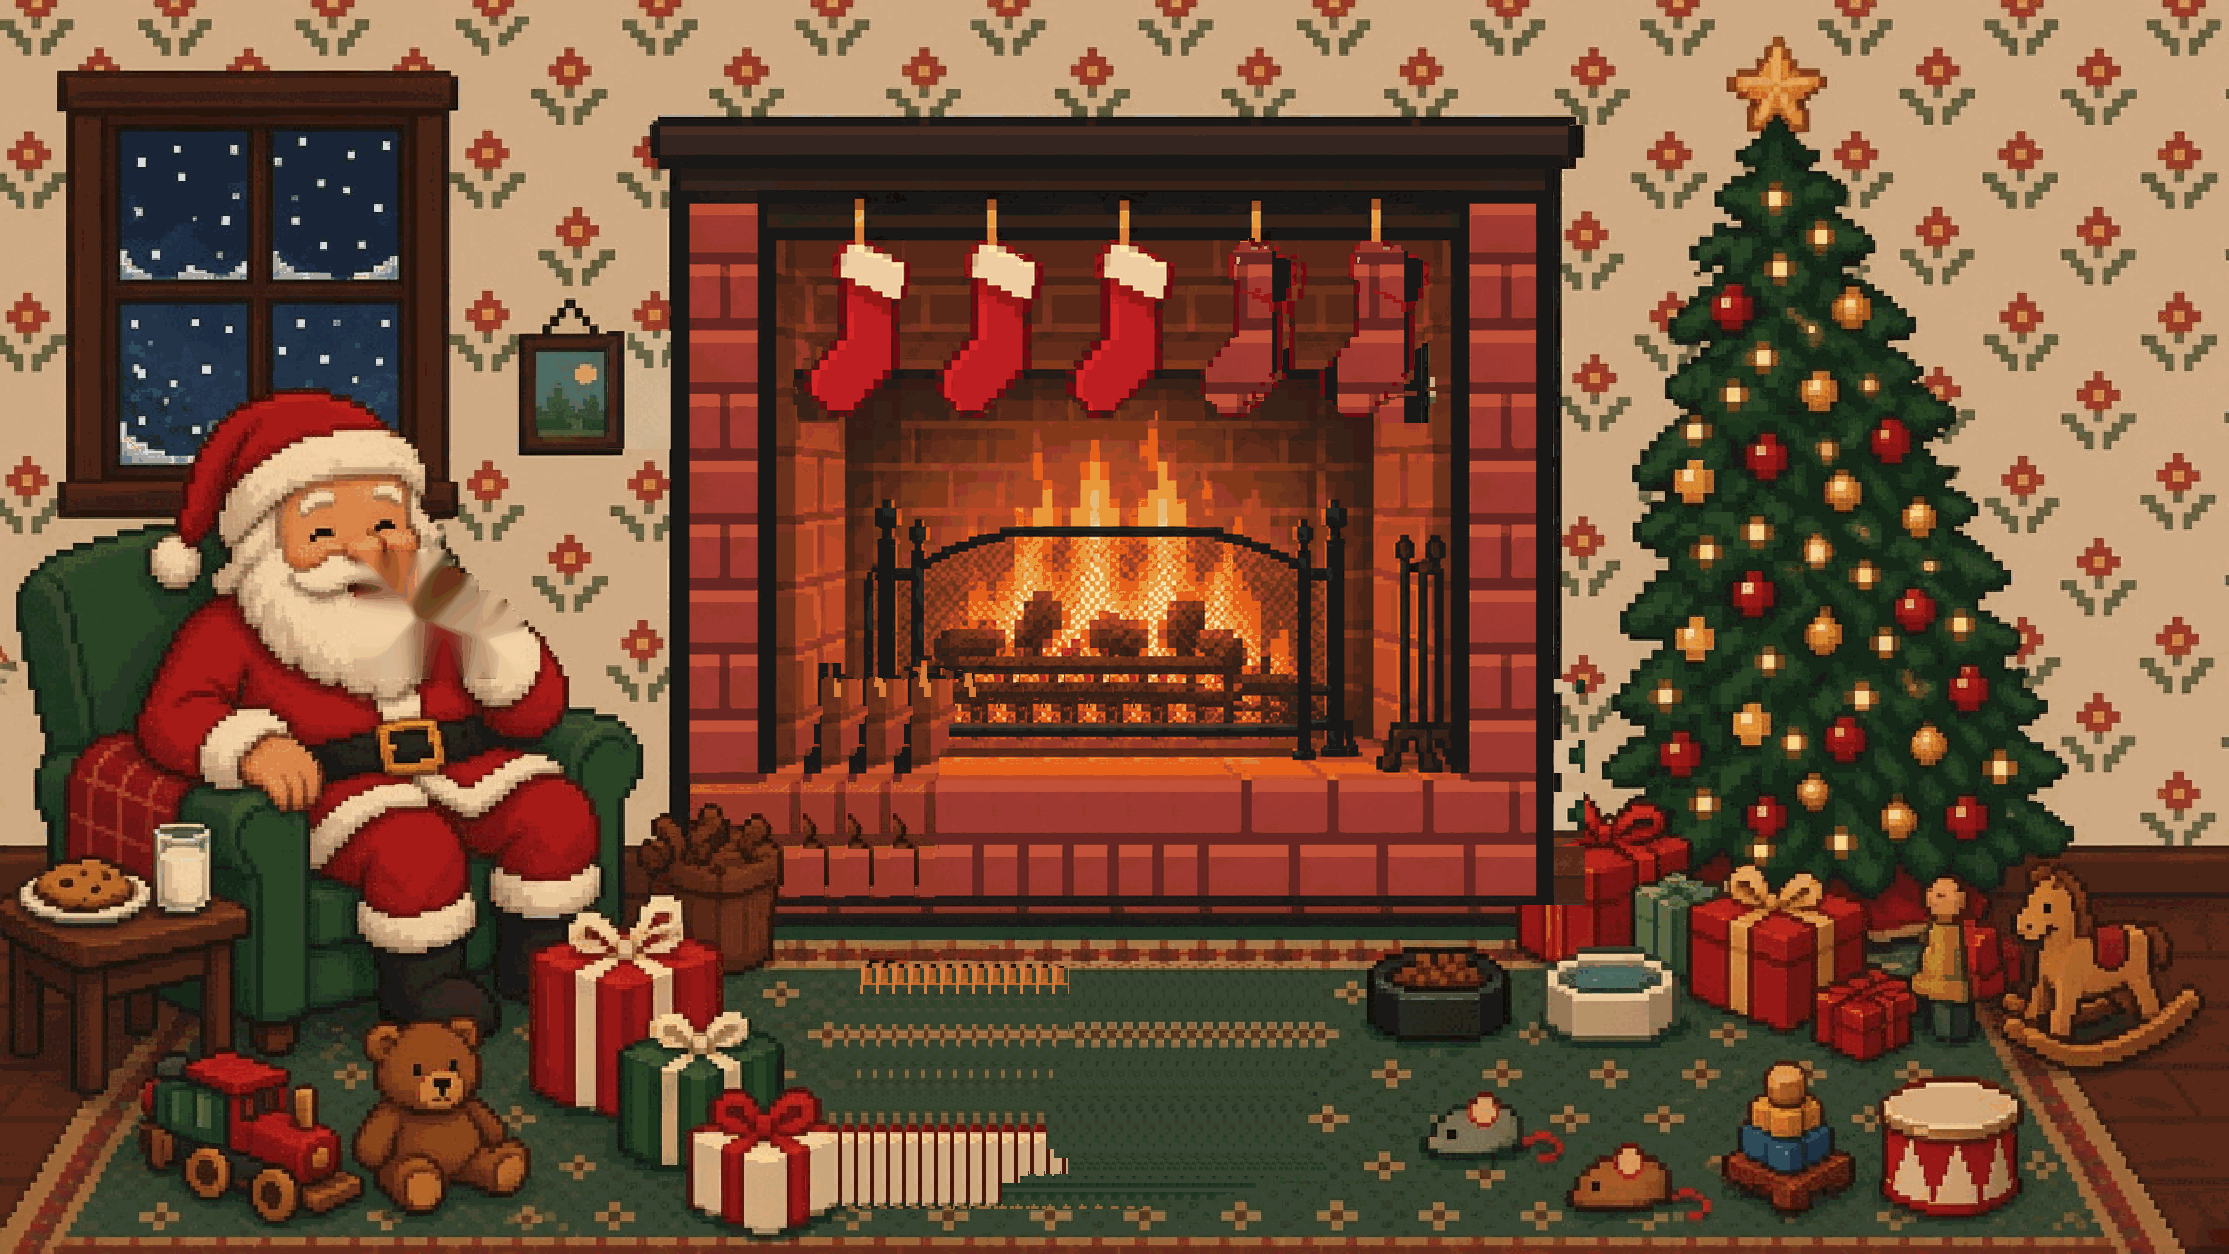
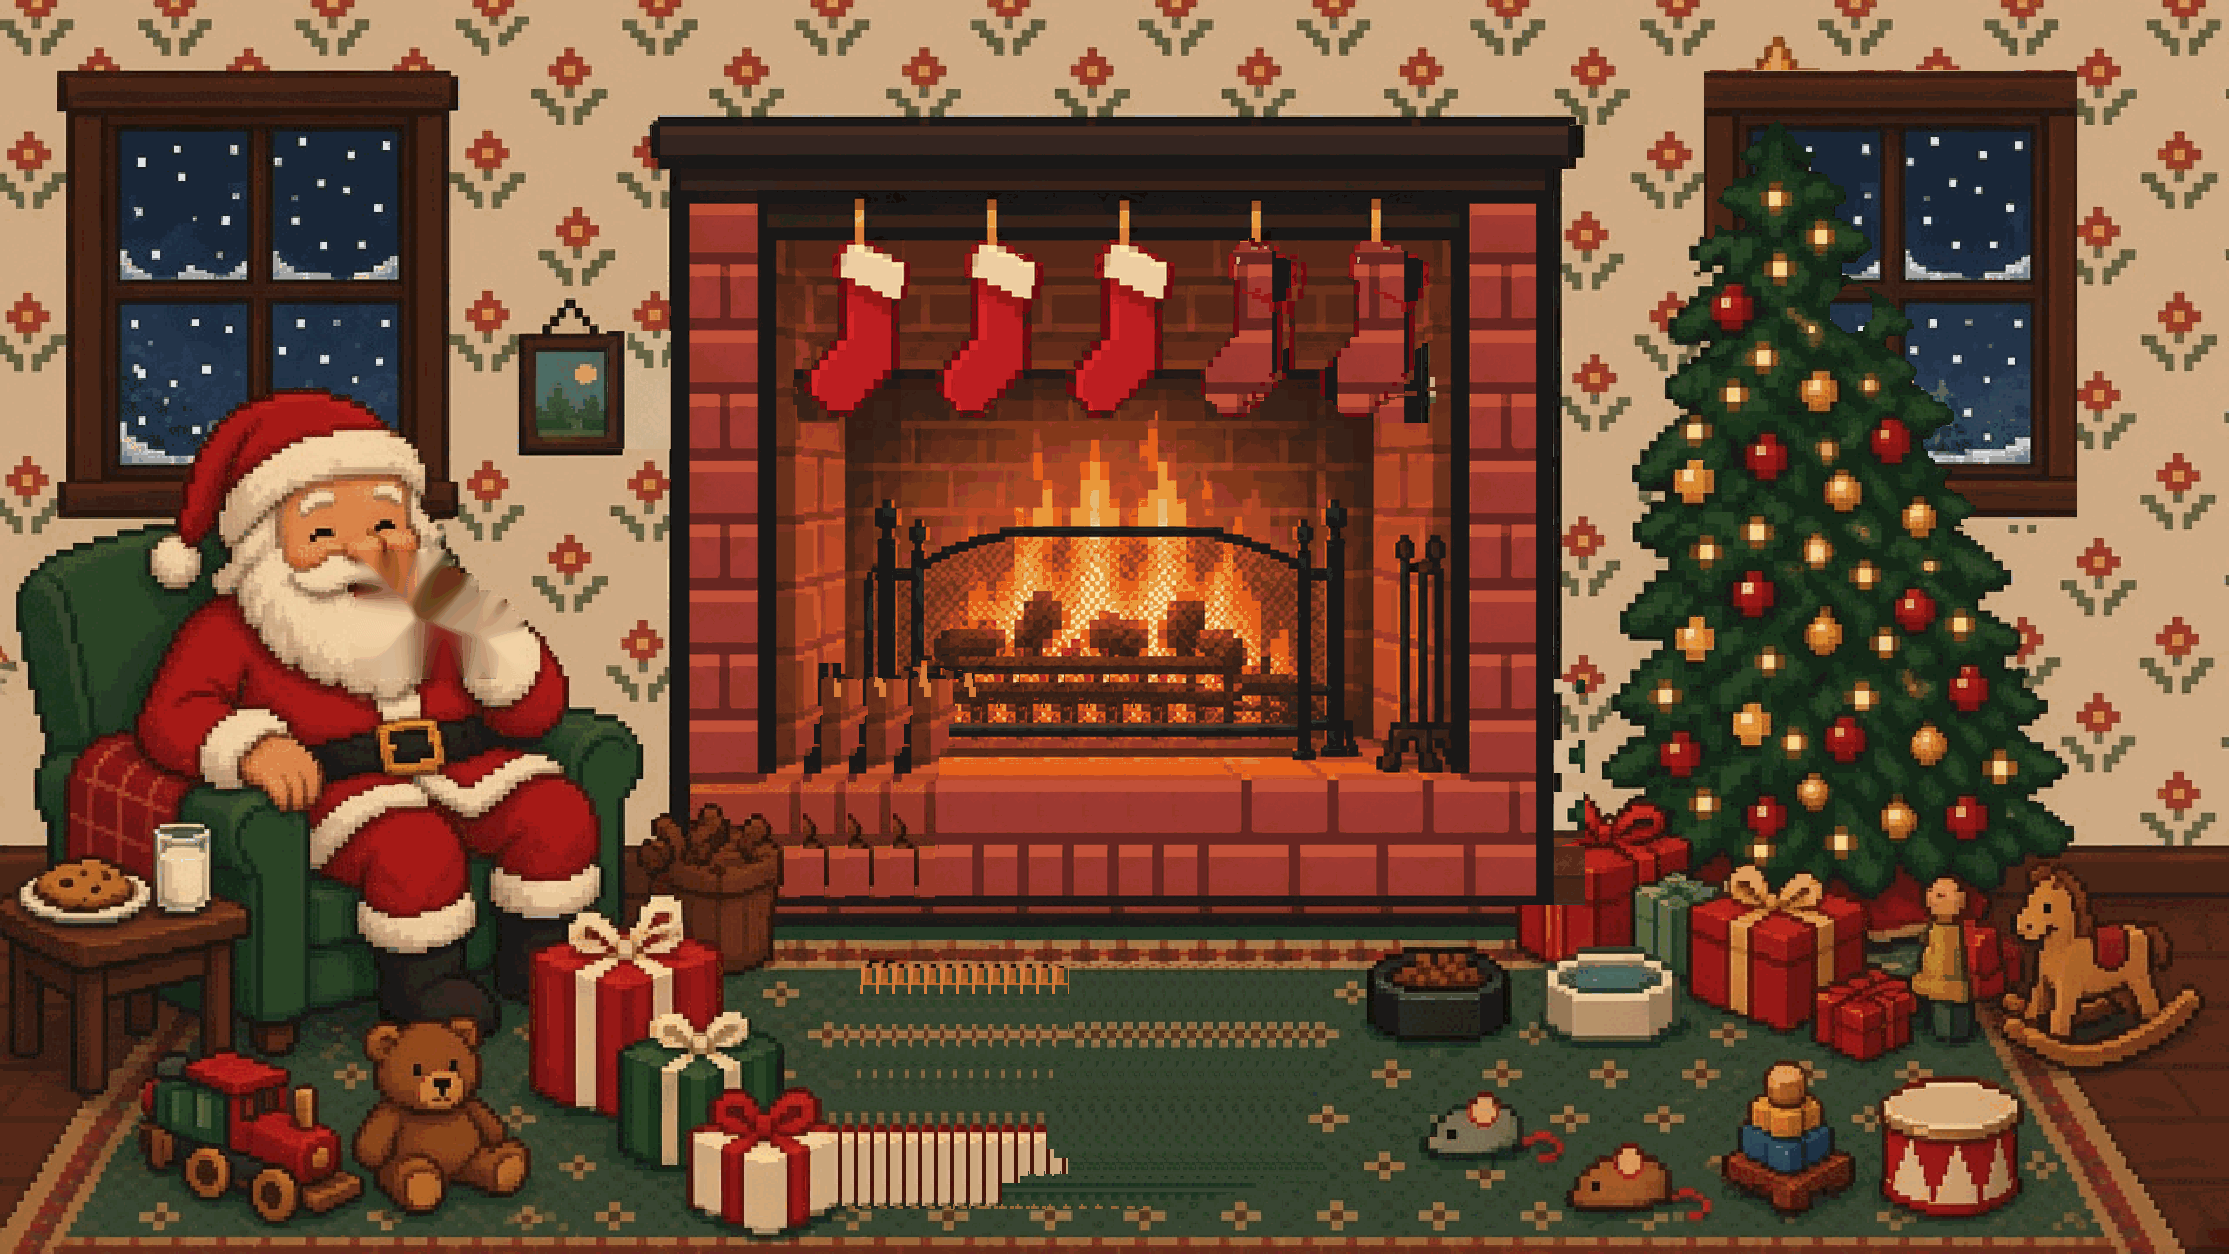
Right window behind tree with snow, night lighting

Changed region(s): [[0.7429, 0.0311, 0.9596, 0.4354]]

diff --git a/index.html b/index.html
@@ -4,7 +4,7 @@ html,body{margin:0;height:100%;background:#0d0a0a;overflow:hidden}
 .s{position:absolute;left:50%;top:50%;transform:translate(-50%,-50%);width:max(100vw,177.78vh);height:max(56.25vw,100vh);background:url(bg.png) 0 0/100% 100%;image-rendering:pixelated;overflow:hidden}
 @media (max-aspect-ratio:4/3){.s{width:min(100vw,177.78vh);height:min(56.25vw,100vh)}}
 .s>*{position:absolute;pointer-events:none;image-rendering:pixelated}
-#snow{left:5.384%;top:10.526%;width:12.427%;height:26.555%;z-index:1}.lt{width:.45%;height:.8%;margin:-.4% 0 0 -.22%;background:radial-gradient(circle,rgba(255,250,200,.95) 0 25%,rgba(255,210,110,.5) 45%,transparent 70%);z-index:5;animation:tw 2s steps(3) infinite}@keyframes tw{0%,100%{opacity:.15}50%{opacity:1}}.wframe{z-index:2}.santa,.sarm{z-index:3}[class*=stk],[class*=mt]{z-index:2}
+#snow{left:5.384%;top:10.526%;width:12.427%;height:26.555%;z-index:6}#snow2{left:78.600%;top:10.526%;width:12.427%;height:26.555%;z-index:6}.wframe,.rfront{z-index:7!important;filter:brightness(.52) saturate(.85)}#night{inset:0;z-index:4;background:radial-gradient(ellipse 34% 52% at 50.6% 50%,rgba(8,12,35,0) 0,rgba(8,12,35,.18) 45%,rgba(8,12,35,.5) 85%,rgba(8,12,35,.58) 100%)}#glow{z-index:5!important}.lt,.gl{z-index:8!important}#fire{z-index:1}.e{z-index:6!important}.lt{width:.45%;height:.8%;margin:-.4% 0 0 -.22%;background:radial-gradient(circle,rgba(255,250,200,.95) 0 25%,rgba(255,210,110,.5) 45%,transparent 70%);z-index:5;animation:tw 2s steps(3) infinite}@keyframes tw{0%,100%{opacity:.15}50%{opacity:1}}.wframe{z-index:2}.santa,.sarm{z-index:3}[class*=stk],[class*=mt]{z-index:2}
 @keyframes cookie{0%,55%,100%{transform:rotate(0)}70%{transform:rotate(6deg)}82%{transform:rotate(-1deg)}88%{transform:rotate(0)}}
 @keyframes stk{0%,100%{transform:rotate(-1.6deg)}50%{transform:rotate(1.6deg)}}
 @keyframes wig{0%,80%,100%{transform:rotate(0)}85%{transform:rotate(-12deg)}90%{transform:rotate(8deg)}95%{transform:rotate(-4deg)}}
@@ -28,6 +28,7 @@ html,body{margin:0;height:100%;background:#0d0a0a;overflow:hidden}
 .kbody{left:37.954%;top:75.518%;width:20.592%;height:20.574%;transform-origin:50% 100%;animation:br 5.2s ease-in-out infinite -2s}
 .khead{left:37.954%;top:75.518%;width:6.819%;height:20.574%;transform-origin:99.3% 89.5%;animation:bob 11s ease-in-out infinite}
 .wframe{left:5.114%;top:10.048%;width:12.965%;height:27.512%;transform-origin:50% 50%;animation:none}
+.rfront{left:76.447%;top:5.582%;width:16.734%;height:36.284%;transform-origin:50% 50%;animation:none}
 @keyframes br{0%,100%{transform:scaleY(1)}50%{transform:scaleY(1.018)}}
 @keyframes sway{0%,100%{transform:rotate(-3deg)}50%{transform:rotate(4deg)}}
 @keyframes flick{0%,80%,100%{transform:rotate(0)}84%{transform:rotate(-9deg)}88%{transform:rotate(3deg)}92%{transform:rotate(-5deg)}}
@@ -38,7 +39,7 @@ html,body{margin:0;height:100%;background:#0d0a0a;overflow:hidden}
 .btn{position:fixed;left:50%;bottom:4vmin;transform:translateX(-50%);font:bold 14px monospace;color:#ffe3a8;background:#3a1c14;border:3px solid #ffb347;box-shadow:3px 3px 0 #000;padding:8px 14px;cursor:pointer;transition:opacity 1.5s;z-index:9}
 @media (prefers-reduced-motion:reduce){.s *{animation:none!important}.e{display:none}}
 </style></head><body><div class="s">
-<canvas id="snow" width="64" height="76"></canvas>
+<canvas id="snow" width="64" height="76"></canvas><canvas id="snow2" width="64" height="76"></canvas><div id="night"></div>
 <canvas id="fire" width="96" height="72"></canvas>
 <img class="sp santa" src="santa.png" alt="">
 <img class="sp sarm" src="sarm.png" alt="">
@@ -121,6 +122,7 @@ html,body{margin:0;height:100%;background:#0d0a0a;overflow:hidden}
 <i class="lt" style="left:78.95%;top:67.77%;animation-duration:2.35s;animation-delay:-2.16s"></i>
 <i class="lt" style="left:81.18%;top:69.90%;animation-duration:1.92s;animation-delay:-0.90s"></i>
 <img class="sp wframe" src="wframe.png" alt="">
+<img class="sp rfront" src="rfront.png" alt="">
 <div id="glow"></div>
 <i class="e" style="left:47%"></i><i class="e" style="left:50%;animation-delay:-1.1s"></i><i class="e" style="left:54%;animation-delay:-2.2s"></i>
 </div>
@@ -133,8 +135,8 @@ const img=x.createImageData(w,h),g=document.getElementById('glow'),rm=matchMedia
 let step=function(){for(let X=0;X<w;X++)for(let Y=1;Y<h;Y++){const s=Y*w+X,p=F[s];if(!p){F[s-w]=0;continue}const r=Math.random()*3.4|0,d=s-r+1;F[Math.max(0,d-w)]=Math.max(0,p-(Math.random()<.55?1:0)-(Math.random()<(1-Y/h)*.9?1:0)-(Math.random()<.04?3:0))}
 for(let i=0;i<w*h;i++){const q=P[F[i]];img.data.set(q,i*4)}x.putImageData(img,0,0)}
 function loop(t){if(t-last>33){last=t;step();g.style.opacity=.75+Math.random()*.25;g.style.transform='translate('+(Math.random()-.5)*.6+'%,'+(Math.random()-.5)*.4+'%)'}requestAnimationFrame(loop)}
-const sc=document.getElementById('snow'),sx=sc.getContext('2d'),fl=[...Array(28)].map(()=>[Math.random()*64,Math.random()*76,.15+Math.random()*.35]);
-function snow(){sx.clearRect(0,0,64,76);sx.fillStyle='#e8f0ff';fl.forEach(f=>{f[1]+=f[2];f[0]+=Math.sin(f[1]/7)*.15;if(f[1]>76){f[1]=-1;f[0]=Math.random()*64}sx.fillRect(f[0]|0,f[1]|0,1,1)})}
+const sc=document.getElementById('snow'),sx=sc.getContext('2d'),sx2=document.getElementById('snow2').getContext('2d'),fl=[...Array(28)].map(()=>[Math.random()*64,Math.random()*76,.15+Math.random()*.35]);
+function snow(){sx.clearRect(0,0,64,76);sx.fillStyle='#e8f0ff';fl.forEach(f=>{f[1]+=f[2];f[0]+=Math.sin(f[1]/7)*.15;if(f[1]>76){f[1]=-1;f[0]=Math.random()*64}sx.fillRect(f[0]|0,f[1]|0,1,1)});sx2.clearRect(0,0,64,76);sx2.drawImage(sc,0,0)}
 const _st=step;step=function(){_st();snow()};
 for(let i=0;i<40;i++)step();if(!rm)requestAnimationFrame(loop);else step()})();
 </script>
